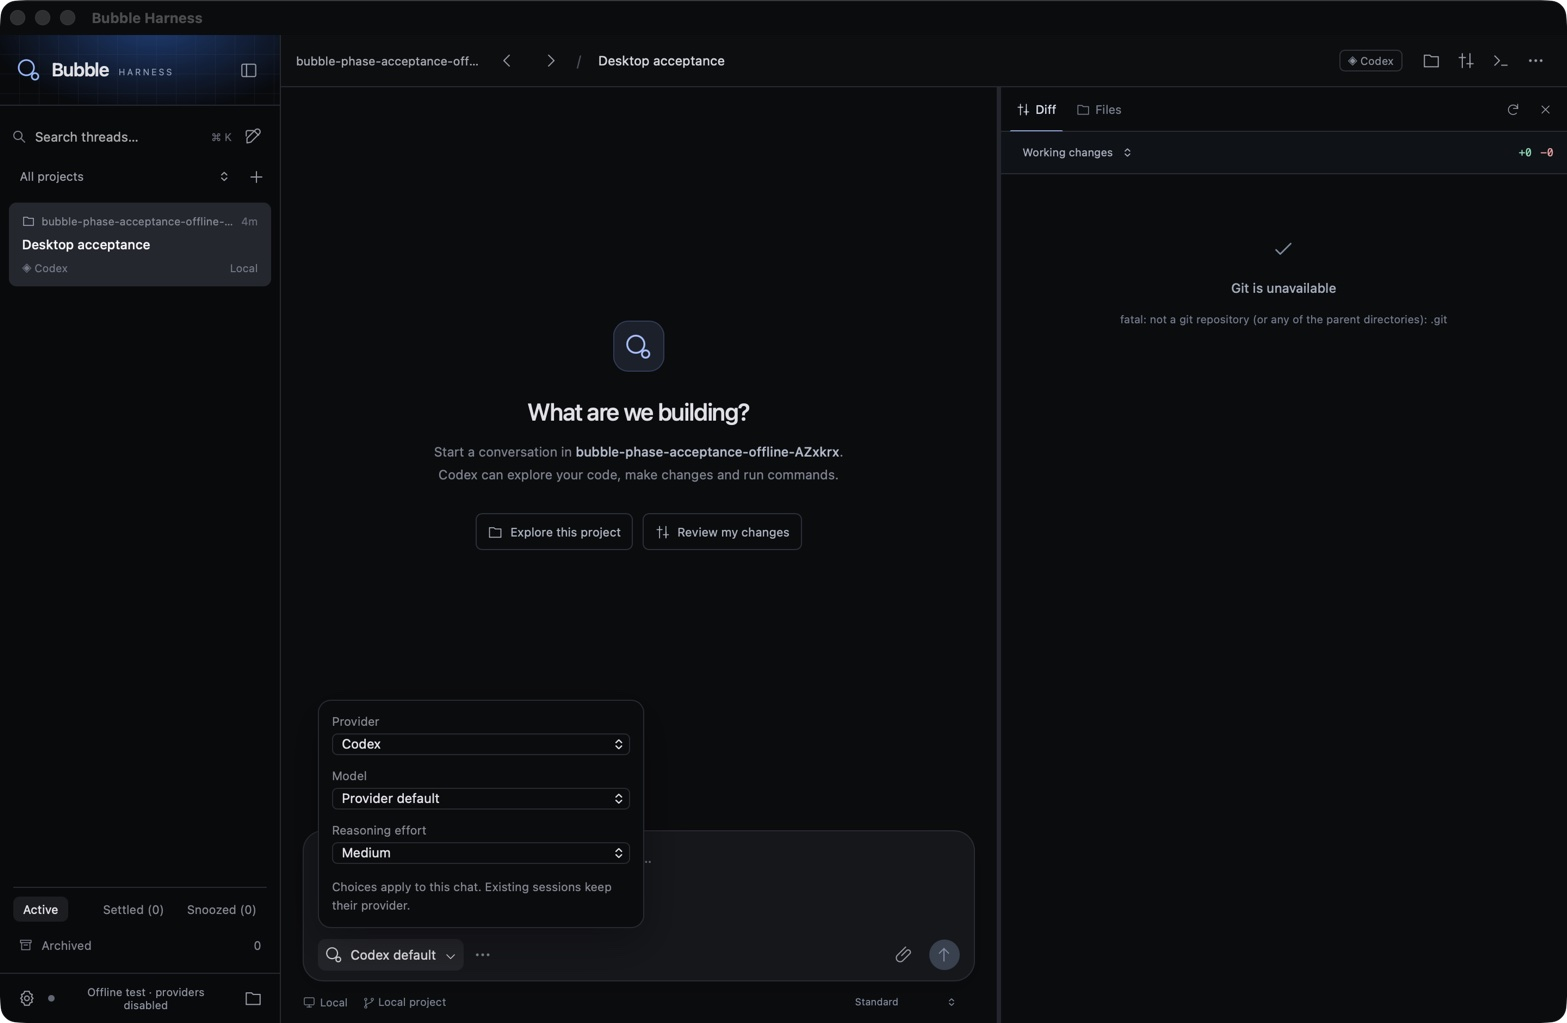
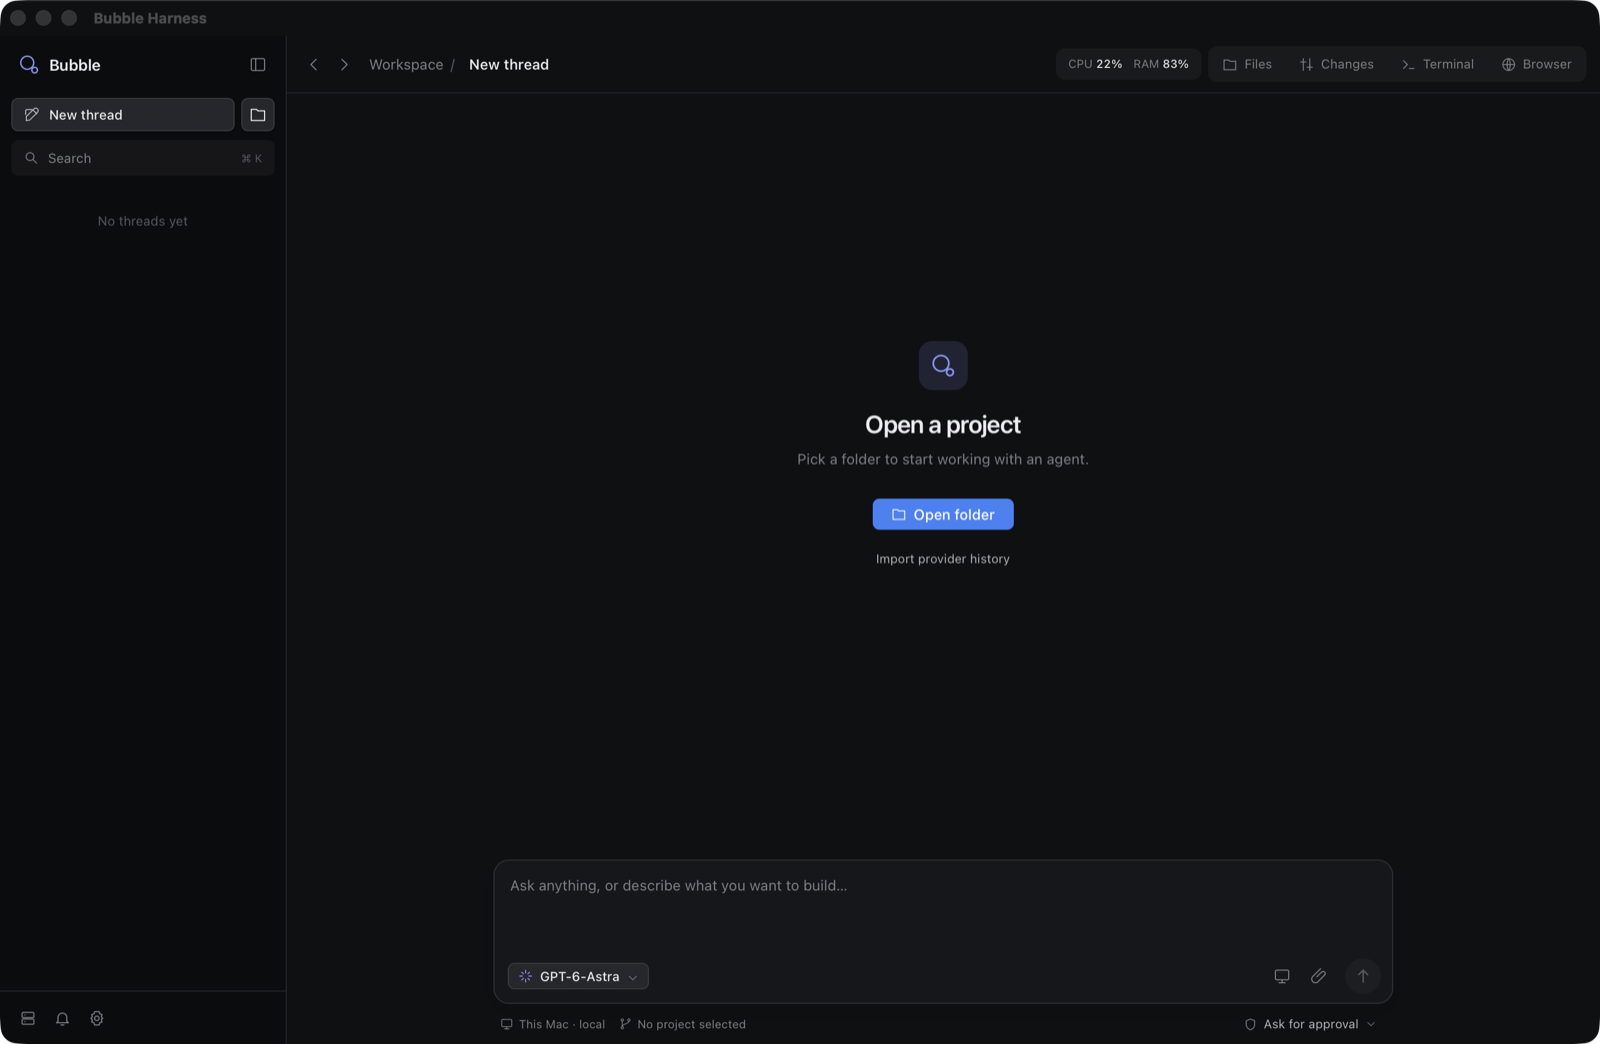
Refresh screenshots and add update/uninstall steps

diff --git a/README.md b/README.md
@@ -31,6 +31,8 @@ brew install --cask huslayer826/tap/bubble-harness
 
 Requires an Apple Silicon Mac and [Node.js](https://nodejs.org) (Homebrew installs Node for you). It's free and an early preview.
 
+**Update** with `brew upgrade --cask bubble-harness`, or download the latest .dmg again. **Uninstall** with `brew uninstall --cask --zap bubble-harness` (the `--zap` also removes chats and settings).
+
 ## Bring your own sub
 
 Bubble doesn't sell tokens. Sign in to the agents you already pay for and Bubble runs them for you.
